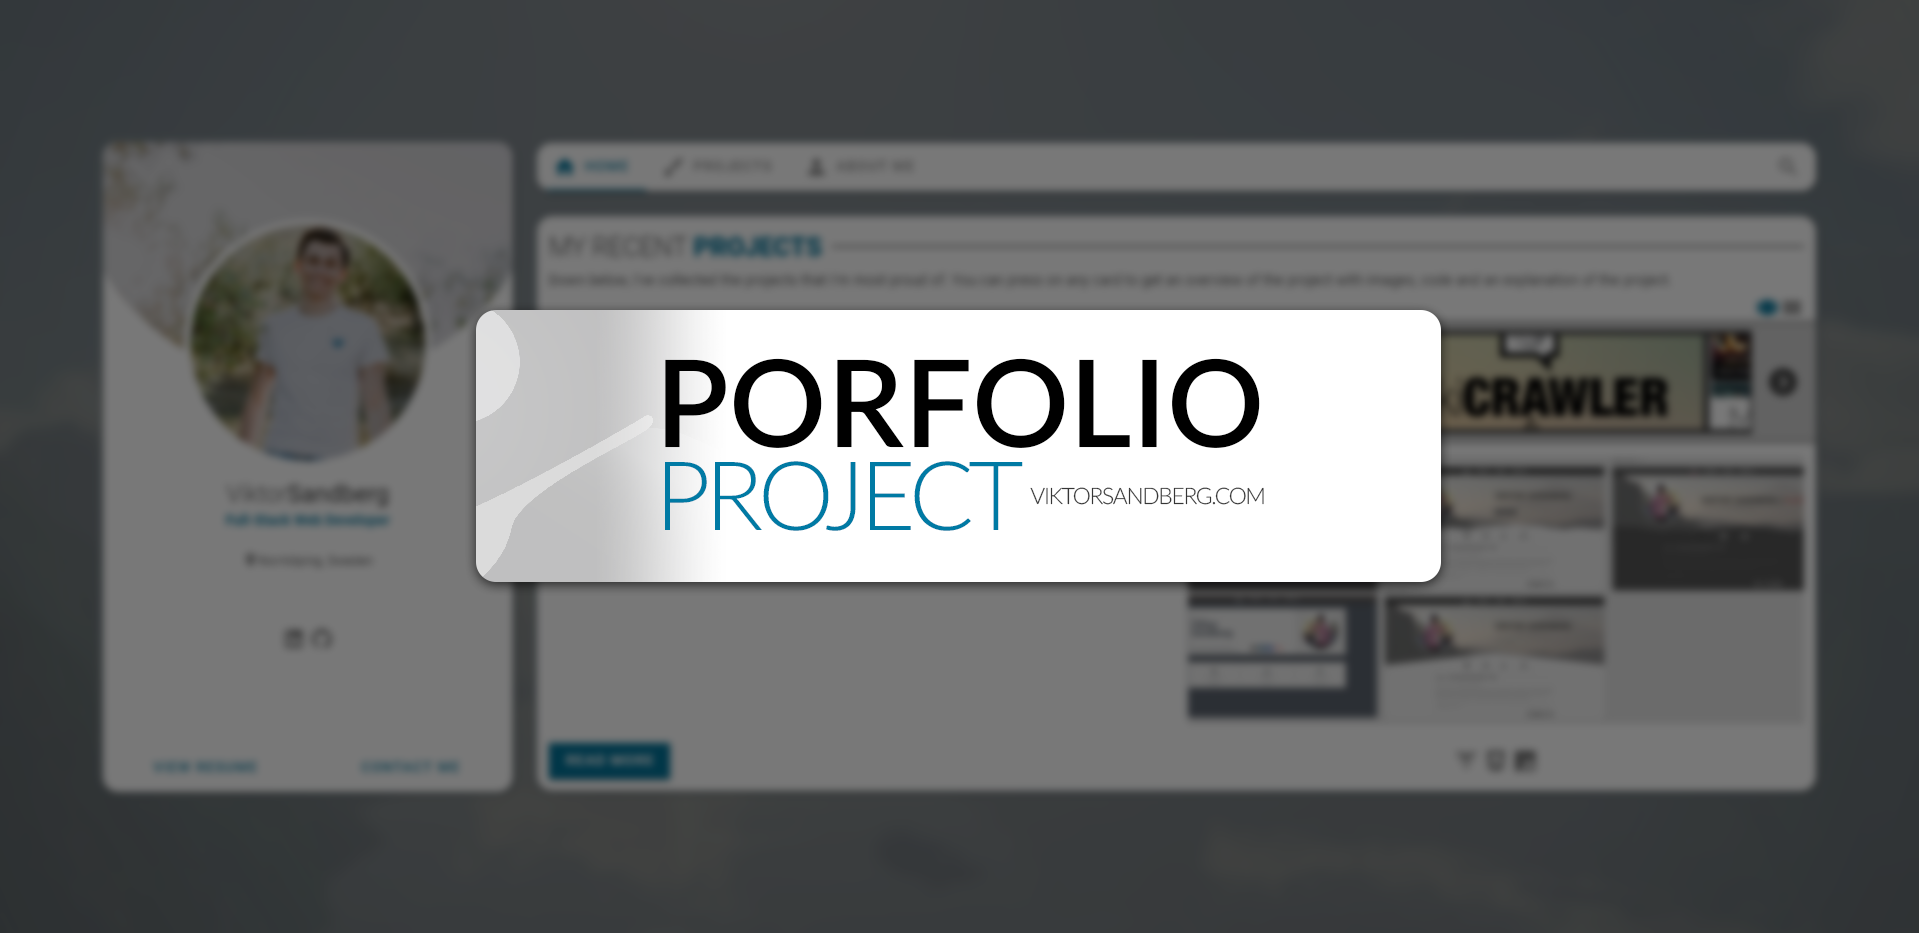
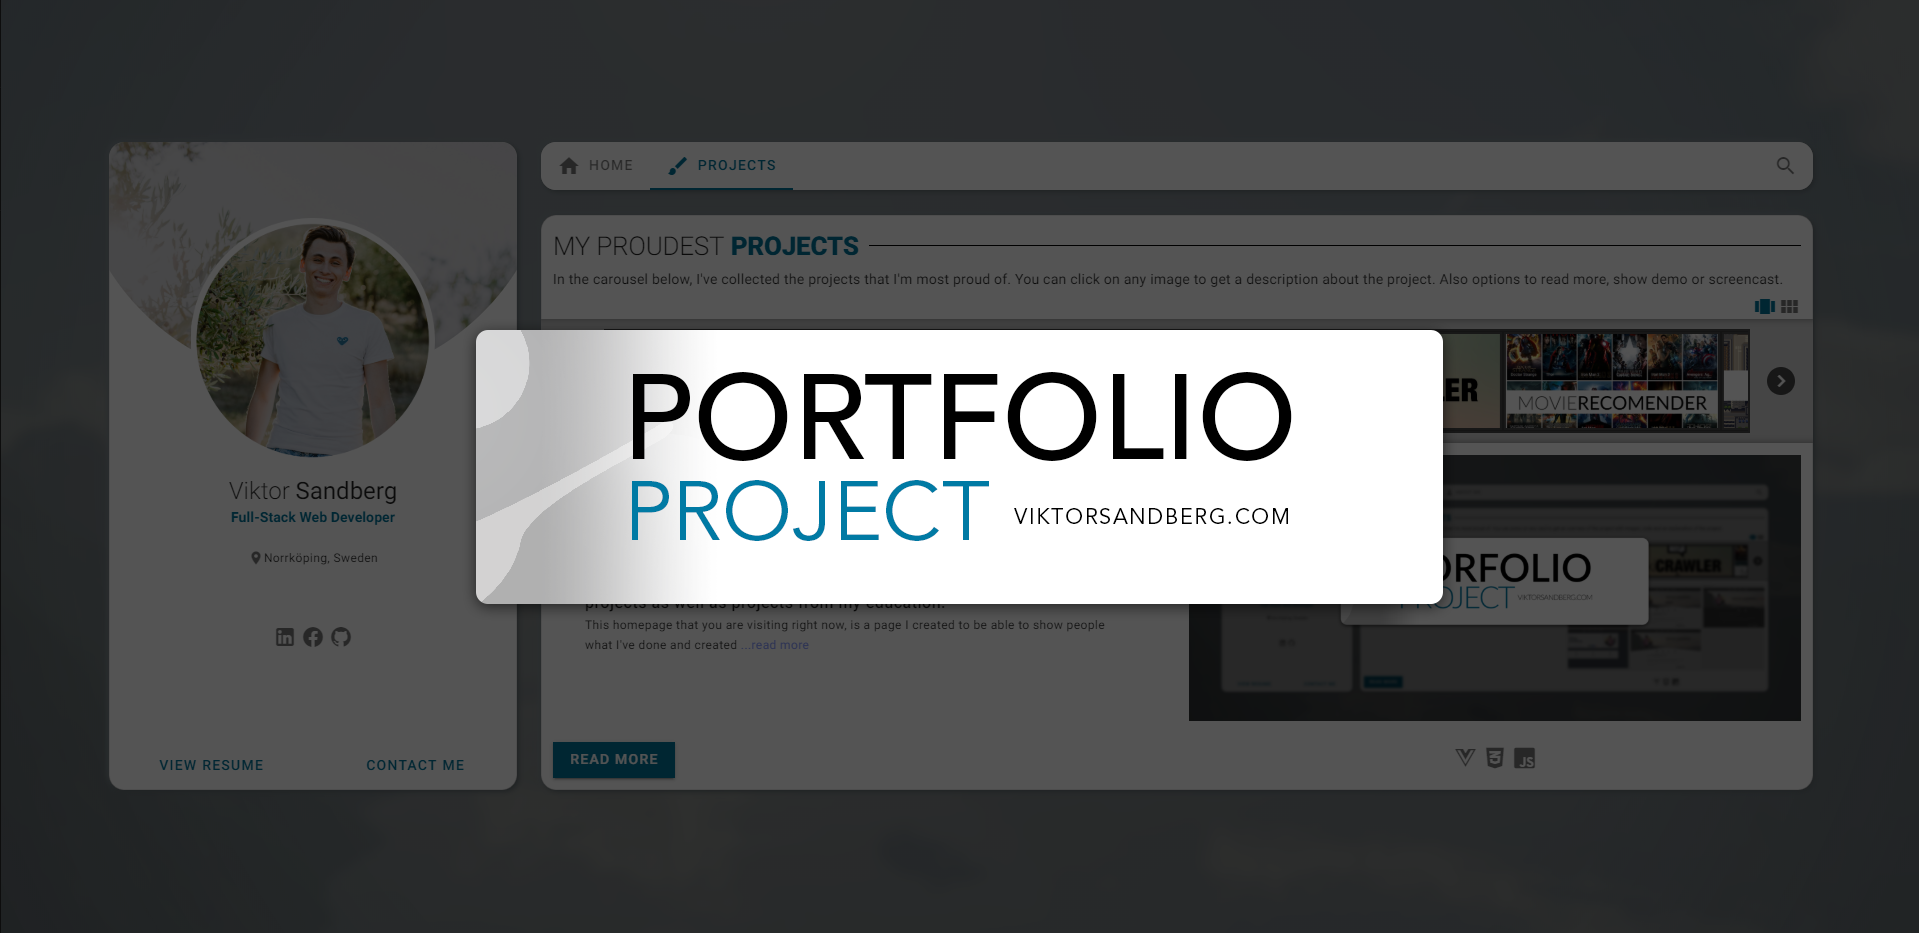
Updated some final things for deploy

diff --git a/src/components/Portfolio/ProjectContent.vue b/src/components/Portfolio/ProjectContent.vue
@@ -18,32 +18,40 @@
               </span>
             </span>
           </h2>
-          <span class="overline "
-            ><v-icon x-small>mdi-clock</v-icon>{{ ' ' + timeToRead() }} min read
-            article</span
+          <div
+            style="display: flex; flex-direction: row; justify-content: end; width: 100%"
           >
+            <div
+              style="display:flex; flex-direction: column; text-align: left; width: 100%"
+            >
+              <span class="overline">
+                status:
+              </span>
+
+              <span
+                :class="[
+                  'overline',
+                  currentProject.finished === 'Ongoing' ? 'green--text' : ''
+                ]"
+                >{{
+                  currentProject.finished !== 'Ongoing'
+                    ? 'Finished ' + currentProject.finished
+                    : currentProject.finished
+                }}</span
+              >
+            </div>
+          </div>
           <div
             class="font-weight-regular project-description"
             style="text-align: left; padding-top: 10px; "
           >
-            <p class="body-2 pt-2" style="font-weight: 450">
+            <p class="body-1 short-description-text" style="font-weight: 500">
               {{ currentProject.shortDescription }}
             </p>
-            <p class="caption pt-2">
-              {{ currentProject.description.substr(0, 220) }}
+            <p class="caption description-text hidden-md-and-down">
+              {{ currentProject.description.substr(0, 120) }}
               <a @click.stop="showMoreInfo = true"> ...read more</a>
             </p>
-            <v-container
-              style="display: grid;  grid-template-columns: 1fr 1fr 1fr 1fr; gap:20px"
-            >
-              <v-img
-                v-for="(image, index) in currentProject.images.src"
-                :key="index"
-                :src="require('../../assets/project/' + image)"
-                :alt="currentProject.title"
-                class="slideshow-image"
-              />
-            </v-container>
           </div>
 
           <div style=" height: 100%; ">
@@ -100,6 +108,7 @@
         </v-col>
         <v-col md="6" sm="12" no-gutters>
           <v-img
+            class="clickable-image"
             style="cursor: pointer;"
             aspect-ratio="2.3"
             :src="require('../../assets/project/' + currentProject.thumbnail)"
@@ -348,7 +357,14 @@ export default {
 .tooltip-icon:hover {
   filter: opacity(0.5) drop-shadow(0 0 0 #a0a0a0);
 }
-
+.short-description-text {
+  font-weight: 550;
+  margin: 0;
+  padding: 2em 2em 0;
+}
+.description-text {
+  padding: 0 2rem;
+}
 /* Responsive layout */
 @media screen and (max-width: 1904px) {
   .project-title-h2 {

diff --git a/src/components/Portfolio/ProjectDialogContent.vue b/src/components/Portfolio/ProjectDialogContent.vue
@@ -15,7 +15,7 @@
           :src="require(`../../assets/project/${currentProject.banner}`)"
         >
           <div class="project-short-description ">
-            <p class="overline padded-short-description-text  ">
+            <p class="overline padded-section padded-short-description-text ">
               {{ currentProject.shortDescription }}
             </p>
           </div>
@@ -31,26 +31,17 @@
             >
               <div style="display: flex; flex-direction: column">
                 <span class="overline">Title: {{ currentProject.title }}</span>
-                <span class="overline ">Project size: {{ projectSize() }}</span>
+
+                <span class="overline "
+                  ><v-icon x-small>mdi-clock</v-icon
+                  >{{ ' ' + timeToRead() }} min read article</span
+                >
               </div>
               <div
                 style="display: flex; flex-direction: column; text-align: right"
               >
-                <span class="overline">
-                  status:
-                </span>
-
-                <span
-                  :class="[
-                    'overline',
-                    currentProject.finished === 'Ongoing' ? 'green--text' : ''
-                  ]"
-                  >{{
-                    currentProject.finished !== 'Ongoing'
-                      ? 'Finished ' + currentProject.finished
-                      : currentProject.finished
-                  }}</span
-                >
+                <span class="overline">Project size</span>
+                <span class="overline">{{ projectSize() }}</span>
               </div>
             </div>
 
@@ -87,7 +78,7 @@
                   <v-img
                     :src="require('../../assets/project/' + image)"
                     :alt="currentProject.title"
-                    class="slideshow-image"
+                    class="clickable-image slideshow-image"
                   />
                 </v-card>
               </SwiperSlide>
@@ -429,22 +420,9 @@ export default {
 }
 
 .slideshow-image {
-  opacity: 100%;
   height: 100%;
-  transition: opacity 0.2s;
 }
-.slideshow-image:hover {
-  opacity: 90%;
-  transition: opacity 0.2s;
-}
-.slideshow-dialog-image {
-  opacity: 100%;
-  transition: opacity 0.2s;
-}
-.slideshow-dialog-image:hover {
-  opacity: 95%;
-  transition: opacity 0.2s;
-}
+
 .legend-text {
   font-size: 10pt;
   position: relative;
@@ -552,10 +530,11 @@ export default {
   align-items: center;
   justify-content: center;
   height: 100%;
+  margin: 0 auto;
 }
 .padded-short-description-text {
-  position: fixed;
   color: rgb(160, 160, 160);
+  width: 66.6667%;
 }
 .bottom-content {
   position: relative;

diff --git a/src/components/Backup/Portfolio/Portfolio.vue b/src/components/Backup/Portfolio/Portfolio.vue
@@ -70,20 +70,16 @@
               :key="i"
               class="carousel-box"
             >
-              <div>
-                <v-img
-                  :key="project.id"
-                  aspect-ratio="1.5"
-                  :eager="true"
-                  :src="require('../../assets/project/' + project.thumbnail)"
-                  @click="slidePressed(project.id)"
-                />
-              </div>
-              <!--<v-img :src="`../../assets/projects/${thumbnails[0]}`" :key="thumbnail" />-->
+              <v-img
+                :key="project.id"
+                class="clickable-image"
+                aspect-ratio="1.5"
+                :eager="true"
+                :src="require('../../assets/project/' + project.thumbnail)"
+                @click="slidePressed(project.id)"
+              />
             </div>
 
-            <!-- ../../assets/project/Dotabase/thumbnail.jpg -->
-            <!-- Custom arrows-->
             <template #prevArrow>
               <div class="custom-arrow" style="top: 40%; left: -30">
                 <v-icon class="carousel-arrow">mdi-chevron-left-circle</v-icon>

diff --git a/src/App.vue b/src/App.vue
@@ -89,6 +89,17 @@ export default {
   background-repeat: no-repeat;
   background-size: cover;
 }
+.clickable-image > .v-image__image {
+  transform: scale(1);
+  transition-delay: 0.8s;
+  transition: 0.3s ease-in-out;
+}
+
+.clickable-image:hover > .v-image__image {
+  transform: scale(1.02);
+  transition-delay: 2s;
+  transition: 0.3s ease-in-out;
+}
 
 ::-webkit-scrollbar-track {
   -webkit-box-shadow: inset 0 0 6px rgba(0, 0, 0, 0.3);

diff --git a/src/components/Portfolio/Portfolio.vue b/src/components/Portfolio/Portfolio.vue
@@ -42,6 +42,7 @@
                   <v-card>
                     <v-img
                       :key="project.id"
+                      class="clickable-image"
                       aspect-ratio="1.8"
                       style="cursor: pointer;"
                       :src="
